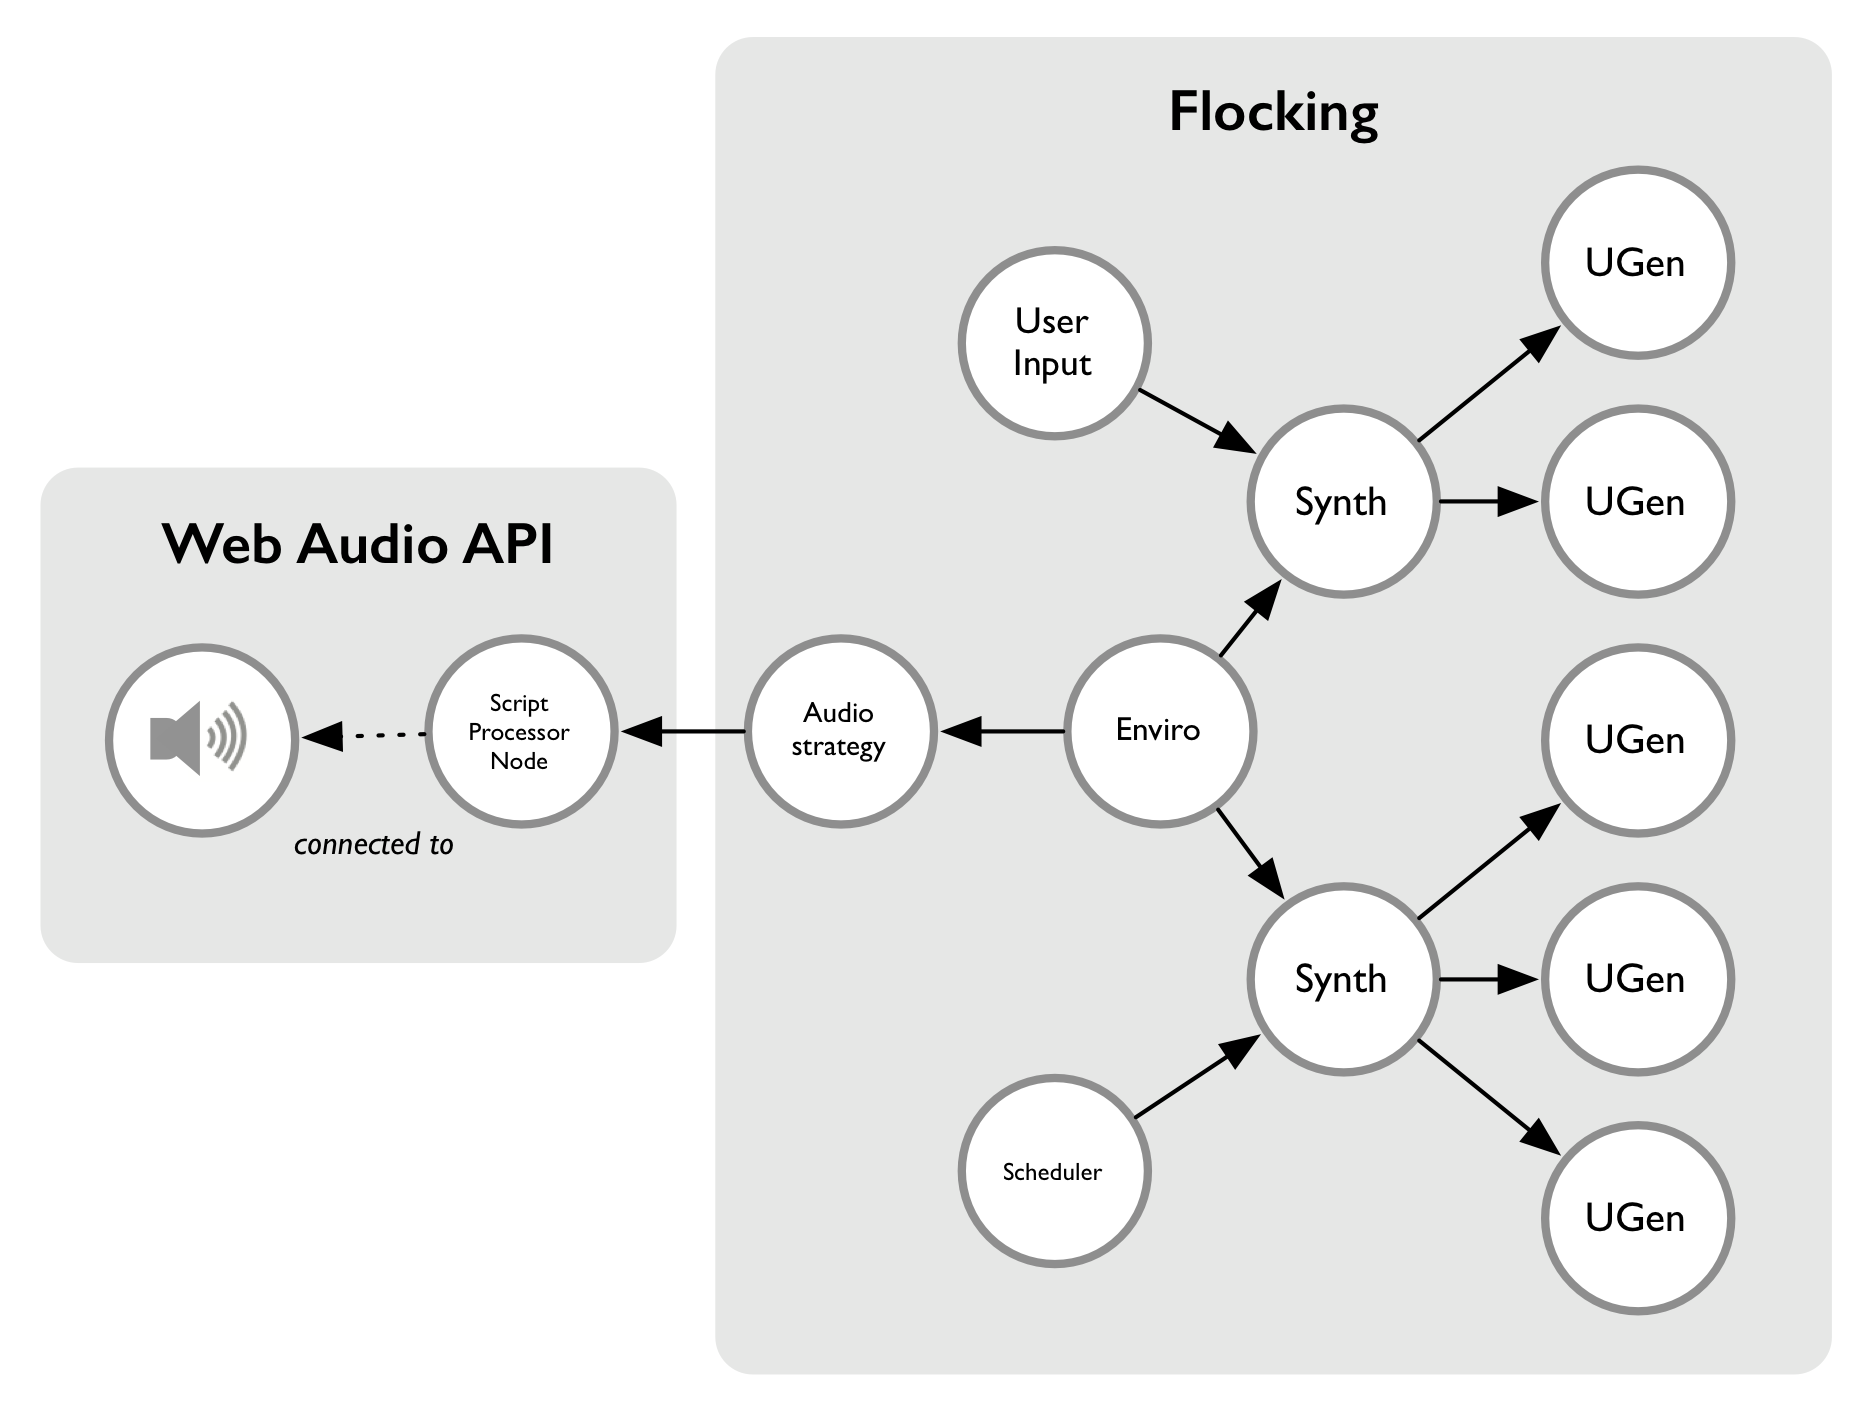
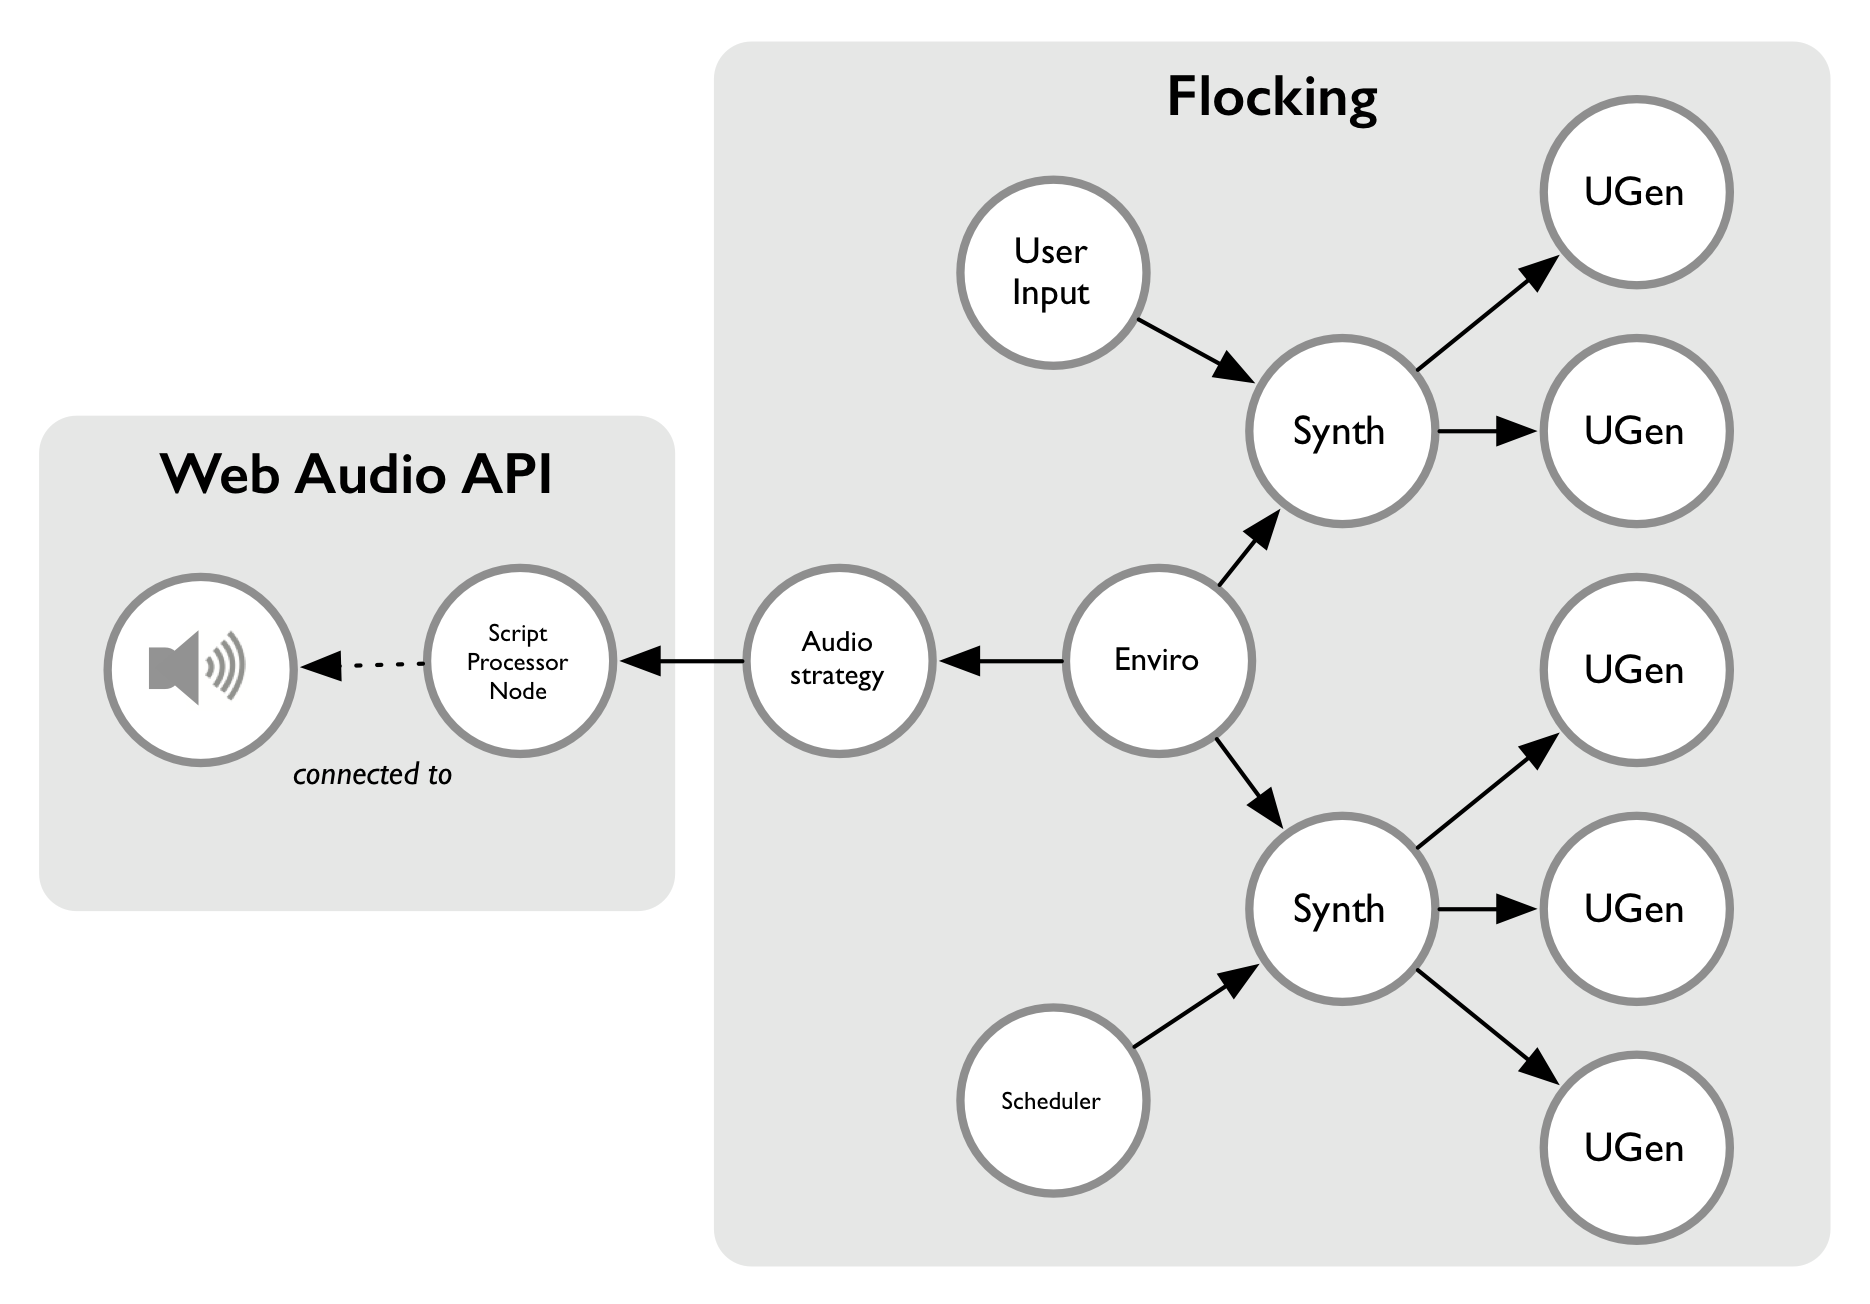
Fixes a stray apostrophe. Minor spacing fix in archi diagram.

diff --git a/icmc-2014/flockingicmc2014.tex b/icmc-2014/flockingicmc2014.tex
@@ -130,7 +130,7 @@
 \begin{abstract}
 Flocking\footnote{http://flockingjs.org/} is a framework for audio synthesis and music composition written in JavaScript. It takes a unique approach to solving several of the common architectural problems faced by computer music environments, emphasizing a declarative style that is closely aligned with the principles of the web.
 
-In Flocking, instruments and scores are defined as JavaScript Object Notation (JSON) objects. JSON is a subset of the JavaScript language that is used widely across the web for exchanging data. By representing the basic building blocks of synthesis declaratively, Flocking’s goal is to enable the growth of an ecosystem of tools that can easily parse and understand the logic and semantics of digital instruments. This is particularly useful for supporting generative composition (where programs generate new instruments and scores algorithmically), graphical tools (for programmers and non-programmers alike to collaborate), and new modes of social programming that allow musicians to easily adapt, extend, and rework existing instruments without having to ``fork" their code.
+In Flocking, instruments and scores are defined as JavaScript Object Notation (JSON) objects. JSON is a subset of the JavaScript language that is used widely across the web for exchanging data. By representing the basic building blocks of synthesis declaratively, Flocking's goal is to enable the growth of an ecosystem of tools that can easily parse and understand the logic and semantics of digital instruments. This is particularly useful for supporting generative composition (where programs generate new instruments and scores algorithmically), graphical tools (for programmers and non-programmers alike to collaborate), and new modes of social programming that allow musicians to easily adapt, extend, and rework existing instruments without having to ``fork" their code.
 
 In contrast to other emerging web audio libraries and tools, Flocking provides a robust, optimized, and well-tested architecture that explicitly supports extensibility and long-term growth. Flocking runs in nearly any modern JavaScript environment, including desktop and mobile browsers (Chrome, Firefox, and Safari), as well as on embedded devices with Node.js.
 
